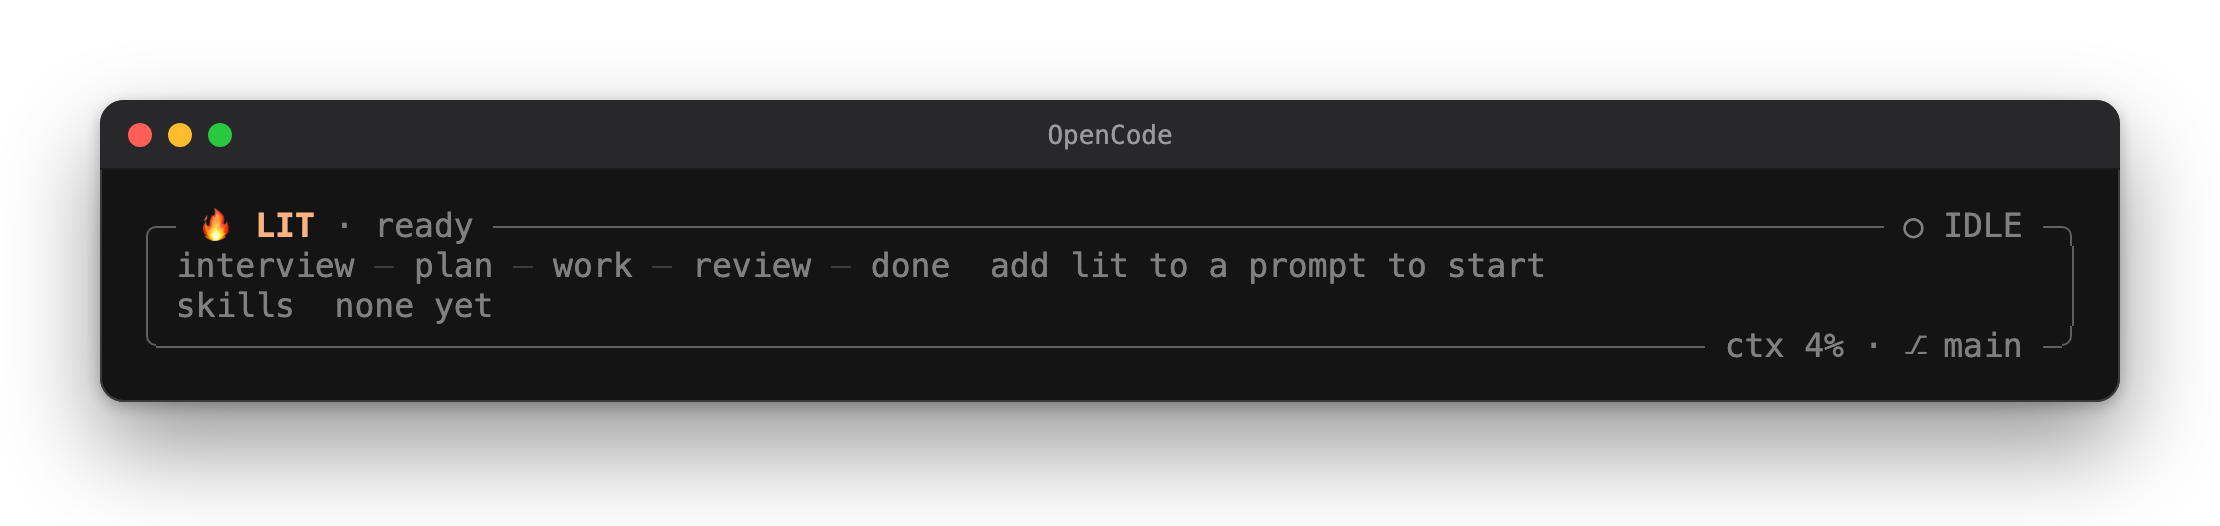
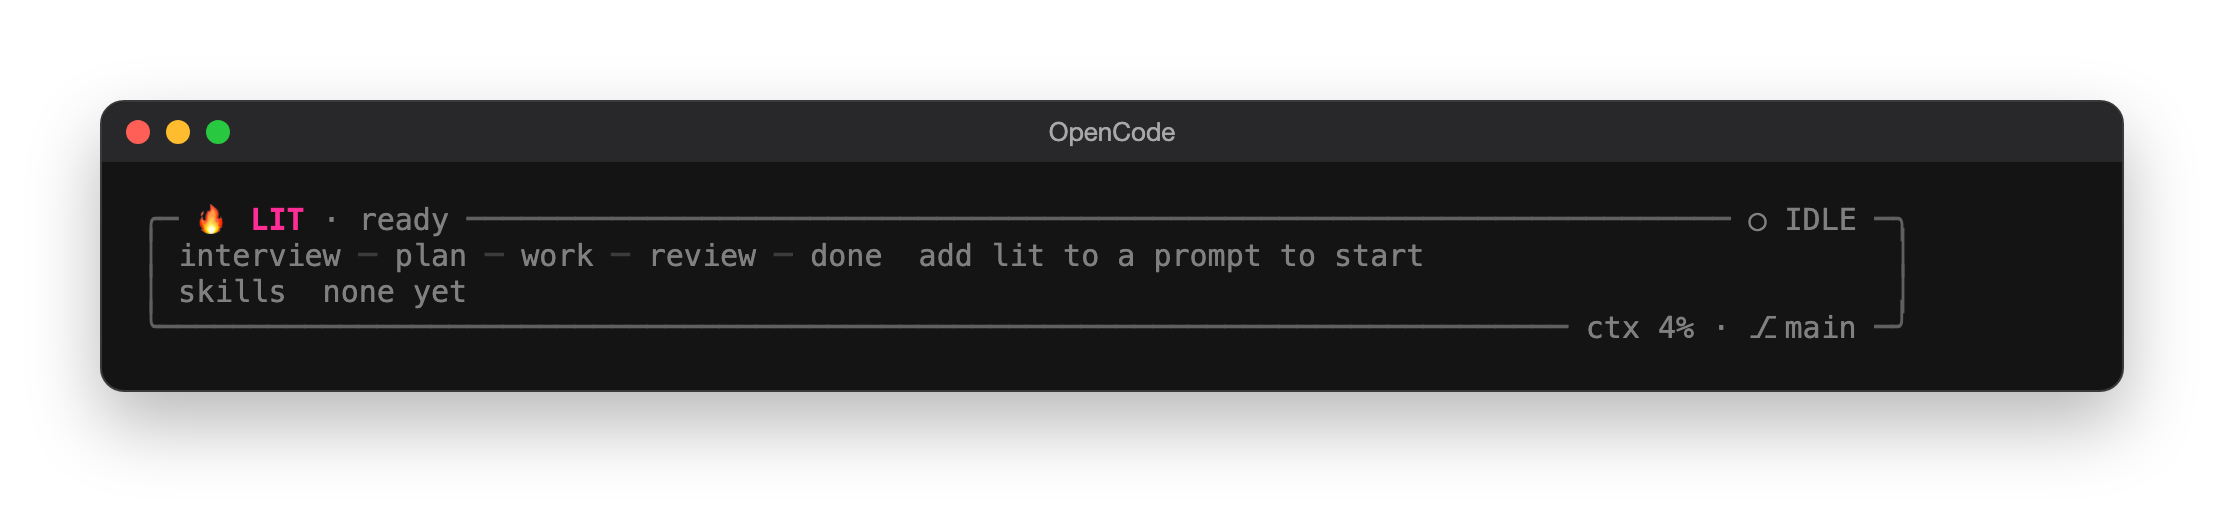
feat(tui): give the status panel and chip the LIT look

Changed region(s): [[0.0311, 0.3954, 0.9635, 0.9125], [0.4662, 0.2129, 0.5284, 0.2738], [0.0622, 0.2129, 0.0932, 0.2738]]

diff --git a/src/tui/mission-text.ts b/src/tui/mission-text.ts
@@ -25,9 +25,23 @@ export type MissionPalette = {
   readonly element?: string;
   /** What fades and tints mix toward: the panel, else the background, else a neutral for the mode. */
   readonly mixBase: string;
+  /** The running stage's pill and the current skill chip, and that pill on a warning: bright in every mode. */
+  readonly fill: string;
+  readonly fillWarn: string;
   /** Text drawn on a filled pill. */
   readonly onFill: string;
 };
+
+/**
+ * The LIT signature colours. Dark themes use them as they are; light themes deepen the colours drawn
+ * as text within the same hue so words stay readable, while pill fills keep the bright signature with
+ * dark ink in both modes.
+ */
+const litColors = {
+  dark: { flame: "#ff6337", pink: "#ff2d95", accent: "#5fd7ff", green: "#6bdb8f", amber: "#ffaf3c", red: "#ff5f5f" },
+  light: { flame: "#e2521f", pink: "#d81b78", accent: "#0a87b8", green: "#1f9d55", amber: "#b86e00", red: "#d93a3a" },
+  ink: "#0b0f14"
+} as const;
 
 /** Panel box width in cells, and the content width inside its border and one cell of padding per side. */
 export const panelWidth = 36;
@@ -59,8 +73,9 @@ export function colorToHex(value: unknown, fallback: string): string {
 }
 
 /**
- * Builds the palette from `api.theme.current`. A surface token with alpha 0 (the system and
- * lucent-orng themes) means "draw no background", never black.
+ * Builds the palette from `api.theme.current`: the LIT signature colours for the brand, the map ramp,
+ * the pills, the bar and the state colours, over the theme's text, muted text, fills and borders.
+ * A surface token with alpha 0 (the system and lucent-orng themes) means "draw no background", never black.
  */
 export function paletteFromTheme(theme: Record<string, unknown> | undefined, mode: "dark" | "light" = "dark"): MissionPalette {
   const pick = (key: string, fallback: string): string => colorToHex(theme?.[key], fallback);
@@ -72,14 +87,15 @@ export function paletteFromTheme(theme: Record<string, unknown> | undefined, mod
   const panel = surface("backgroundPanel");
   const element = surface("backgroundElement");
   const neutral = mode === "light" ? "#f2f2f2" : "#1c1c1c";
+  const lit = litColors[mode];
   return {
-    primary: pick("primary", "#ff6337"),
-    secondary: pick("secondary", "#ff2d95"),
-    accent: pick("accent", "#b48cff"),
-    info: pick("info", "#0aa6c2"),
-    warning: pick("warning", "#ffaf3c"),
-    success: pick("success", "#6bdb8f"),
-    error: pick("error", "#ff5f5f"),
+    primary: lit.flame,
+    secondary: lit.pink,
+    accent: lit.accent,
+    info: lit.accent,
+    warning: lit.amber,
+    success: lit.green,
+    error: lit.red,
     text: pick("text", "#e6edf3"),
     muted: pick("textMuted", "#7d8590"),
     borderActive: pick("borderActive", "#484f58"),
@@ -88,7 +104,9 @@ export function paletteFromTheme(theme: Record<string, unknown> | undefined, mod
     ...(panel === undefined ? {} : { panel }),
     ...(element === undefined ? {} : { element }),
     mixBase: panel ?? background ?? neutral,
-    onFill: background ?? panel ?? (mode === "light" ? "#ffffff" : "#0b0b0b")
+    fill: litColors.dark.accent,
+    fillWarn: litColors.dark.amber,
+    onFill: litColors.ink
   };
 }
 
@@ -213,7 +231,7 @@ export function progressBar(ratio: number, cells: number, palette: MissionPalett
   return segments;
 }
 
-/** The stage colour ramp: the theme's primary through secondary to accent, so every theme keeps its own feel. */
+/** The stage colour ramp: LIT flame through pink to the LIT accent. */
 export function stageColor(index: number, count: number, palette: MissionPalette): string {
   return gradientAt([palette.primary, palette.secondary, palette.accent], count <= 1 ? 0 : index / (count - 1));
 }
@@ -250,7 +268,7 @@ function pillStyle(state: StepState, palette: MissionPalette, warn: number): Pil
   if (state === "done") return { fg: palette.success, bg: mixHex(palette.success, palette.background ?? palette.mixBase, 0.72), bold: false };
   if (state === "todo" || state === "skip") return { fg: palette.muted, ...(palette.panel === undefined ? {} : { bg: palette.panel }), bold: false };
   const level = state === "warn" ? Math.max(warn, 0.5) : warn;
-  return { fg: palette.onFill, bg: mixHex(palette.info, palette.warning, level), bold: true };
+  return { fg: palette.onFill, bg: mixHex(palette.fill, palette.fillWarn, level), bold: true };
 }
 
 /** A light pass over the running stage: once when the map moves forward, and during the completion moment. */
@@ -294,7 +312,7 @@ export function crumb(view: MissionView, index: number, frame: MotionFrame, pale
   const chars = [...label];
   const pill: Segment[] = flash < 0
     ? [{ text: label, fg: style.fg, ...(style.bg === undefined ? {} : { bg: style.bg }), bold: style.bold }]
-    : chars.map((char, position) => ({ text: char, fg: style.fg, bg: shine(style.bg ?? palette.info, palette, position / (chars.length - 1), flash, 0.3), bold: true }));
+    : chars.map((char, position) => ({ text: char, fg: style.fg, bg: shine(style.bg ?? palette.fill, palette, position / (chars.length - 1), flash, 0.3), bold: true }));
   if (!counted) return pill;
   return [...pill, ...(bar > 0 ? [{ text: " ", fg: palette.muted }, ...microBar(frame.barRatio, palette, bar)] : []), { text: ` ${countText(view)}`, fg: palette.text, bold: true }];
 }
@@ -323,9 +341,13 @@ export function liveSegments(view: MissionView, frame: MotionFrame, palette: Mis
   ];
 }
 
+/** The `🔥 LIT` pill: LIT pink to flame across its cells with dark ink, bright on light themes too. */
 function brandPill(palette: MissionPalette, sweep: number): Segment[] {
   const chars = [" ", "🔥", " ", "L", "I", "T", " "];
-  return chars.map((char, index) => ({ text: char, fg: palette.onFill, bg: shine(palette.primary, palette, index / (chars.length - 1), sweep, 0.3), bold: true }));
+  return chars.map((char, index) => {
+    const position = index / (chars.length - 1);
+    return { text: char, fg: palette.onFill, bg: shine(mixHex(litColors.dark.pink, litColors.dark.flame, position), palette, position, sweep, 0.3), bold: true };
+  });
 }
 
 export type ChipTier = "full" | "medium" | "tight";

diff --git a/src/tui/mission-band.ts b/src/tui/mission-band.ts
@@ -152,7 +152,7 @@ function phaseLabel(view: MissionView, frame: MotionFrame, palette: MissionPalet
 }
 
 function topLine(view: MissionView, frame: MotionFrame, palette: MissionPalette, width: number, border: string, rest: boolean): Line {
-  const brand: Segment[] = [{ text: "🔥 ", fg: palette.text }, { text: "LIT", fg: shine(palette.primary, palette, 0.5, shimmerAt(frame), 0.6), bold: true }];
+  const brand: Segment[] = [{ text: "🔥 ", fg: palette.text }, { text: "LIT", fg: shine(palette.secondary, palette, 0.5, shimmerAt(frame), 0.6), bold: true }];
   const name = view.active ? view.discipline : "ready";
   const right = [phaseLabel(view, frame, palette, rest)];
   const withName = (room: number): Segment[] => [...brand, { text: " · ", fg: palette.muted }, { text: truncateCells(name, room), fg: view.active ? palette.text : palette.muted }];
@@ -256,13 +256,13 @@ function chipSegments(chip: SkillChip, shimmer: ChipShimmer | undefined, palette
   const text = ` ${chip.name} `;
   if (!chip.current) return [{ text, fg: palette.muted, ...(palette.element === undefined ? {} : { bg: palette.element }) }];
   const sweep = shimmer?.names.includes(chip.name) === true ? shimmer.sweep : -1;
-  if (sweep < 0) return [{ text, fg: palette.onFill, bg: palette.accent, bold: true }];
+  if (sweep < 0) return [{ text, fg: palette.onFill, bg: palette.fill, bold: true }];
   const chars = [...text];
-  return chars.map((char, index) => ({ text: char, fg: palette.onFill, bg: shine(palette.accent, palette, index / (chars.length - 1), sweep, 0.3), bold: true }));
+  return chars.map((char, index) => ({ text: char, fg: palette.onFill, bg: shine(palette.fill, palette, index / (chars.length - 1), sweep, 0.3), bold: true }));
 }
 
 /**
- * The skill chips row, exactly `width` cells: bright accent pills for the current request first, then
+ * The skill chips row, exactly `width` cells: bright LIT accent pills for the current request first, then
  * dim recent names, and `+N` for the ones that do not fit. The label goes before any chip does.
  */
 export function skillRow(chips: readonly SkillChip[], shimmer: ChipShimmer | undefined, palette: MissionPalette, width: number): Line {

diff --git a/docs/reference.md b/docs/reference.md
@@ -372,7 +372,7 @@ What it draws:
   at `–`. A review command, a review blocker or a goal completed through the ledger CLI (whose gate
   includes review) marks it done; a goal the agent marks complete in a hand-written `goals.json`
   passed no gate and leaves review at `–`. Stages behind the running one take their place on a colour
-  ramp from the theme's primary through secondary to accent; stages ahead are muted.
+  ramp from LIT flame through pink to the LIT accent; stages ahead are muted.
 - A map chip on the right of the prompt's agent/model row: a `🔥 LIT` pill and the breadcrumb around
   the running stage, `plan ✓ › WORK ▰▰▰▱▱▱▱ 3/7 › review`, with the running stage as a filled pill and a
   seven-cell bar. When the row has room the live step follows (`⠹ bash · 0:48`). Narrower, it drops
@@ -382,7 +382,7 @@ What it draws:
   read yet, the chip assumes the sidebar is open and stays narrower.
 - A mission panel at the top of the session sidebar, in a 36-cell rounded box titled
   `🔥 LIT ▸ <STAGE>` with `n/m criteria` in the bottom border. The border carries the state: the
-  theme accent while working, the warning colour on a warning, the success colour when complete.
+  LIT accent while working, LIT amber on a warning, LIT green when complete.
   Inside: a two-row `LIT` with the discipline and a status beside it, the goal title in bold, the
   vertical stage map (`◆` behind, `◉` running in bold, `⚑` flagged, `◇` ahead, joined by `┃`
   connectors in the ramp colour up to the running stage and dotted `┆` after it, with the saved
@@ -405,7 +405,7 @@ What it draws:
     warning is open, `⚑ <text>` takes the place of the live step and `▸ next`. An idle session shows
     the dim map with the project's last goal, or `add lit to a prompt to start`;
   - row two holds the skill chips: every LitOpenCode skill that fired in the session, several at
-    once. Skills fired by the current request are bright accent pills while it runs, and a new one
+    once. Skills fired by the current request are bright LIT accent pills while it runs, and a new one
     gets a short light sweep as it arrives; when the turn ends they dim and stay as the recent list,
     newest first, and firing one again brightens it. Chips that do not fit collapse into `+N`;
   - the bottom border holds the context use (amber from 75%), the time since the first lit turn
@@ -417,8 +417,8 @@ What it draws:
   then the time, then the context use. It never wraps. The completion moment plays here too.
 - A line under the home prompt, after OpenCode's tips: `🔥 lit ready · last: <goal> ✓ n/m`. It
   appears only when the project ledger holds a goal.
-- Warnings always carry `⚑` and words, not colour alone, because some themes use one colour for
-  both accent and warning. Theme surfaces with alpha 0 (the system and lucent-orng themes) are left
+- Warnings always carry `⚑` and words, not colour alone, so they read the same without colour.
+  Theme surfaces with alpha 0 (the system and lucent-orng themes) are left
   unfilled rather than painted black.
 - One toast per refresh for a gate event: plan saved or not saved, goal set, criterion passed,
   review blocker opened or resolved, and completion. Several events at once collapse into the most
@@ -475,8 +475,16 @@ apart and the running pill flashes once; nothing loops. The live step changes in
 slide-in, and while a tool runs its elapsed time ticks once a second; with no tool running there is
 no timer at all. While a lit session is open the panel re-reads the goal ledger, the bounded work
 record and the research folder every two seconds; an idle session does not.
-Colours come from the active OpenCode theme. Set `["@litfamily/litopencode@<version>", { "motion": false }]`
-in `tui.json` to keep it static, or turn the plugin off by id `litopencode` in OpenCode's plugin
+
+The LIT parts wear the LIT colours in every theme: the `🔥 LIT` pill runs from pink (`#ff2d95`) to
+flame (`#ff6337`), the stage ramp runs flame, pink, then the LIT accent (`#5fd7ff`), the running stage
+and the current skill chips are accent pills, the bar runs flame to accent, and the state colours are
+LIT amber (`#ffaf3c`), green (`#6bdb8f`) and red (`#ff5f5f`). Pills always use dark ink (`#0b0f14`). Text, muted
+text, the panel and element fills, the borders and transparent surfaces still come from the active
+OpenCode theme. On a light theme the pill fills stay bright, and the LIT colours drawn as text
+deepen within the same hue (flame `#e2521f`, pink `#d81b78`, accent `#0a87b8`, green `#1f9d55`, amber
+`#b86e00`, red `#d93a3a`) so they stay readable on a white background. Set
+`["@litfamily/litopencode@<version>", { "motion": false }]` in `tui.json` to turn the motion off, or turn the plugin off by id `litopencode` in OpenCode's plugin
 manager or with `plugin_enabled`.
 
 Band options go in the same options object:

diff --git a/README.md b/README.md
@@ -98,7 +98,7 @@ Before your first `lit` prompt the card is quiet. The title reads `🔥 LIT · r
 
 Send a prompt with `lit` and the card wakes up. The title names the workflow and the step it is on, and the map lights that step with its count. In this lit-loop request the goal has three criteria and one has passed, so the map reads `CRITERION 1/3`, the steps the request went past without doing carry `–`, and the bar shows the share that is done. While a tool runs, its name and running time sit beside the bar. Each LitOpenCode skill the request uses gets a bright chip of its own, with a short sweep of light as it arrives; skills from earlier turns wait in grey.
 
-<p align="center"><img src="./docs/assets/readme/status-card-working.webp" width="760" alt="The LIT status card while a lit-loop request runs. The top border reads 🔥 LIT · lit-loop with ● CRITERION on the right. The first row shows the workflow map interview – ━ plan – ━ CRITERION 1/3 ─ review ─ done with the current step as a filled pill, a bar about a third full, and the live step ⠏ bash · 0:09. The second row reads skills lit-loop, with lit-loop as a bright purple chip. The bottom border reads ctx 4% · ⟳ 0m · ⎇ main." /></p>
+<p align="center"><img src="./docs/assets/readme/status-card-working.webp" width="760" alt="The LIT status card while a lit-loop request runs. The top border reads 🔥 LIT · lit-loop, with a pink LIT word, and ● CRITERION on the right. The first row shows the workflow map interview – ━ plan – ━ CRITERION 1/3 ─ review ─ done with the current step as a filled cyan pill, a bar about a third full, and the live step ⠏ bash · 0:09. The second row reads skills lit-loop, with lit-loop as a bright cyan chip. The bottom border reads ctx 4% · ⟳ 0m · ⎇ main." /></p>
 
 When the turn ends the card settles: the title switches to `○ IDLE`, no step stays lit, and the next open item takes the place of the live step. The chips dim but stay, newest first, so you can still see what ran. Your next prompt wakes it again. A skill used again lights up again, and when there are more chips than room, the rest fold into `+N`.
 
